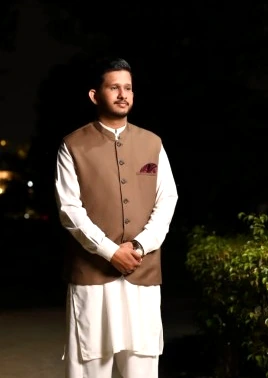
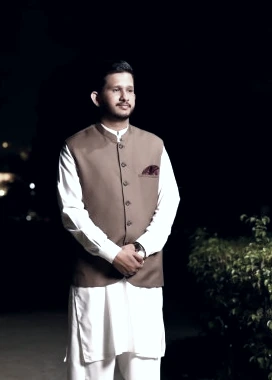
Hero: halftone portrait backdrop, name as display type, parallax

diff --git a/styles.css b/styles.css
@@ -467,7 +467,7 @@ footer{background:rgba(15,6,8,.5);backdrop-filter:blur(14px)}
 .bar.stuck{box-shadow:0 10px 30px -18px rgba(0,0,0,.8)}
 
 /* ---- facts row ---- */
-.facts{padding:22px clamp(18px,2.4vw,28px);border-top:0;margin-top:46px}
+.facts{padding:18px clamp(16px,2.2vw,26px);border-top:0;margin-top:34px}
 
 /* ---- project media as glass frames ---- */
 .shot{padding:10px;margin:0}
@@ -506,3 +506,124 @@ footer{background:rgba(15,6,8,.5);backdrop-filter:blur(14px)}
 }
 
 @media (prefers-reduced-motion:reduce){ .blob{animation:none} }
+
+/* ============================================================
+   Portrait — technical framing, not an arch
+   ============================================================ */
+.portrait-wrap{width:296px}
+
+/* dot matrix sitting behind and offset, like a plotted field */
+.portrait-grid{
+  position:absolute;inset:18px -22px -22px 18px;border-radius:4px;
+  background-image:radial-gradient(rgba(246,241,234,.22) 1px, transparent 1px);
+  background-size:9px 9px;
+  -webkit-mask-image:linear-gradient(215deg, transparent 38%, #000 100%);
+  mask-image:linear-gradient(215deg, transparent 38%, #000 100%);
+  opacity:.5;
+}
+
+/* viewfinder corner brackets */
+.brackets{
+  position:absolute;inset:-11px;width:calc(100% + 22px);height:calc(100% + 22px);
+  color:rgba(246,241,234,.34);pointer-events:none;z-index:3;
+}
+
+.portrait{
+  border-radius:5px;
+  border:1px solid rgba(246,241,234,.20);
+  box-shadow:0 30px 64px -30px rgba(0,0,0,.9), inset 0 1px 0 rgba(246,241,234,.14);
+}
+.portrait img{filter:none}
+/* a flatter, cooler fade so it sits on the page without the warm halo */
+.portrait::after{
+  height:30%;
+  background:linear-gradient(to top, rgba(12,10,14,.94) 0%, rgba(12,10,14,.42) 50%, transparent 100%);
+}
+.grain{opacity:.10}
+
+.portrait-badge{
+  left:auto;right:-12px;bottom:18px;border-radius:5px;
+  font-size:11.5px;letter-spacing:.01em;
+  background:rgba(18,14,18,.88);border-color:rgba(246,241,234,.18);
+}
+
+@media (max-width:980px){ .portrait-wrap{width:252px} }
+@media (max-width:640px){
+  .portrait-wrap{width:216px}
+  .portrait-grid{inset:14px -16px -16px 14px;background-size:8px 8px}
+  .brackets{inset:-8px;width:calc(100% + 16px);height:calc(100% + 16px)}
+  .portrait{border-radius:4px}
+  .portrait-badge{right:-8px;bottom:12px}
+}
+
+/* ============================================================
+   HERO v2 — halftone portrait as the backdrop, name as the type
+   ============================================================ */
+.hero{position:relative;overflow:hidden;min-height:min(100svh,980px);
+  display:flex;align-items:center;padding-block:clamp(118px,13vh,150px) clamp(56px,8vh,88px)}
+
+.hero-photo{
+  position:absolute;top:0;bottom:0;right:-2%;width:min(58%,860px);z-index:0;
+  pointer-events:none;
+  transition:transform .6s cubic-bezier(.2,.7,.3,1);
+  will-change:transform;
+}
+.hero-photo img{
+  width:100%;height:100%;object-fit:cover;object-position:54% 4%;
+  opacity:.62;
+  -webkit-mask-image:
+    linear-gradient(to right, transparent 0%, #000 38%, #000 100%),
+    linear-gradient(to bottom, #000 58%, transparent 97%);
+  mask-image:
+    linear-gradient(to right, transparent 0%, #000 38%, #000 100%),
+    linear-gradient(to bottom, #000 58%, transparent 97%);
+  -webkit-mask-composite:source-in;
+  mask-composite:intersect;
+}
+
+.hero-in{position:relative;z-index:3;width:100%}
+
+/* the name */
+.name{
+  font-size:clamp(60px,11.8vw,168px);
+  line-height:.86;
+  letter-spacing:-.055em;
+  font-weight:800;
+  color:var(--bone);
+  text-transform:none;
+  margin-top:4px;
+  mix-blend-mode:normal;
+  text-shadow:0 14px 60px rgba(10,4,7,.7);
+}
+.name .ln{display:block}
+.name .ln:last-child{margin-left:.07em;color:transparent;
+  -webkit-text-stroke:1.6px rgba(246,241,234,.72)}
+
+.role{
+  margin-top:clamp(20px,2.6vw,30px);
+  font-size:clamp(19px,2.5vw,30px);
+  font-weight:600;letter-spacing:-.025em;line-height:1.2;
+  color:var(--bone);max-width:20ch;
+}
+.hero .lede{margin-top:16px;max-width:50ch}
+
+.facts{display:flex;flex-wrap:wrap;gap:clamp(18px,3.4vw,44px);align-items:center}
+.facts .status dd{display:flex;align-items:center;gap:8px}
+
+@media (max-width:980px){
+  .hero-photo{width:62%;right:-6%}
+  .hero-photo img{opacity:.5}
+}
+
+@media (max-width:640px){
+  .hero{min-height:auto;padding-block:120px 70px}
+  .hero-photo{top:0;bottom:auto;right:-4%;left:auto;width:74%;height:52%}
+  .hero-photo img{opacity:.34;object-position:76% 2%;
+    -webkit-mask-image:linear-gradient(to bottom, #000 30%, transparent 94%);
+    mask-image:linear-gradient(to bottom, #000 30%, transparent 94%);
+    -webkit-mask-composite:source-over;mask-composite:add}
+  .name{font-size:clamp(56px,19vw,96px);line-height:.88}
+  .name .ln:last-child{-webkit-text-stroke-width:1.2px}
+  .role{max-width:none}
+  .facts{gap:16px 26px}
+}

diff --git a/index.html b/index.html
@@ -43,55 +43,49 @@
 <main>
 
 <!-- ========================= HERO ========================= -->
-<section class="hero">
+<section class="hero" id="hero">
+  <div class="hero-photo" id="heroPhoto" aria-hidden="true">
+    <img src="images/hero-portrait.webp" width="1500" height="2045" alt="" fetchpriority="high" decoding="async">
+  </div>
+
   <svg class="hero-art" viewBox="0 0 1400 700" preserveAspectRatio="xMidYMid slice" aria-hidden="true">
     <g class="draw" fill="none" stroke="#D9A441">
-      <path d="M-40 430 L130 360 L290 392 L450 300 L610 334 L780 246 L950 288 L1120 196 L1290 234 L1440 150" stroke-opacity=".30" stroke-width="1.2"/>
-      <path d="M-40 212 L120 258 L280 198 L450 238 L610 178 L780 220 L950 158 L1120 200 L1290 142 L1440 186" stroke-opacity=".17" stroke-width="1.1"/>
-      <path d="M620 640 L770 572 L930 612 L1090 532 L1250 572 L1410 492" stroke-opacity=".12" stroke-width="1.1"/>
+      <path d="M-40 430 L130 360 L290 392 L450 300 L610 334 L780 246 L950 288 L1120 196 L1290 234 L1440 150" stroke-opacity=".26" stroke-width="1.2"/>
+      <path d="M-40 212 L120 258 L280 198 L450 238 L610 178 L780 220 L950 158 L1120 200 L1290 142 L1440 186" stroke-opacity=".14" stroke-width="1.1"/>
     </g>
     <g class="pips" fill="#D9A441">
-      <circle cx="450" cy="300" r="3.2" opacity=".35"/><circle cx="780" cy="246" r="3.6" opacity=".45"/>
-      <circle cx="1120" cy="196" r="4" opacity=".6"/><circle cx="950" cy="158" r="3.2" opacity=".4"/>
-      <circle cx="1290" cy="142" r="3.6" opacity=".5"/><circle cx="1090" cy="532" r="3" opacity=".3"/>
+      <circle cx="450" cy="300" r="3.2" opacity=".3"/><circle cx="780" cy="246" r="3.6" opacity=".4"/>
+      <circle cx="1120" cy="196" r="4" opacity=".5"/><circle cx="950" cy="158" r="3.2" opacity=".35"/>
     </g>
-    <circle class="ring" cx="1120" cy="196" r="30" fill="none" stroke="#D9A441" stroke-opacity=".3" stroke-width="1.2"/>
-    <circle class="ring ring2" cx="1120" cy="196" r="54" fill="none" stroke="#D9A441" stroke-opacity=".14" stroke-width="1"/>
   </svg>
 
   <div class="wrap hero-in">
-    <div class="hero-grid">
-      <div class="hero-copy">
-        <p class="eyebrow rise" style="--d:0ms">Lahore, Pakistan — open to work</p>
-        <h1>
-          <span class="ln rise" style="--d:90ms">Full-stack developer</span>
-          <span class="ln rise" style="--d:180ms">who lives in the <span class="hl">database</span>.</span>
-        </h1>
-        <p class="lede rise" style="--d:280ms">
-          I build SYNC ERP — the system a pharmaceutical field force runs on. A React web app, a React Native
-          app on Google Play, and a PostgreSQL backend carrying most of the business logic.
-        </p>
-        <div class="cta rise" style="--d:360ms">
-          <a class="btn" href="#work">See the work</a>
-          <a class="btn ghost" href="cv/Talha-Aslam-Full-Stack-Developer.pdf" download>Download CV</a>
-        </div>
-      </div>
+    <p class="eyebrow rise" style="--d:0ms">Lahore, Pakistan — open to work</p>
 
-      <div class="portrait-wrap rise" style="--d:440ms" id="portrait">
-        <div class="portrait-plate" aria-hidden="true"></div>
-        <figure class="portrait">
-          <img src="images/portrait.webp" width="400" height="400" alt="Talha Aslam" fetchpriority="high" decoding="async">
-          <span class="grain" aria-hidden="true"></span>
-          <span class="sheen" aria-hidden="true"></span>
-        </figure>
-        <span class="portrait-badge"><span class="pulse"></span>Available for work</span>
-      </div>
+    <h1 class="name">
+      <span class="ln rise" style="--d:80ms">Talha</span>
+      <span class="ln rise" style="--d:170ms">Aslam</span>
+    </h1>
+
+    <p class="role rise" style="--d:260ms">
+      Full-stack developer who lives in the <span class="hl">database</span>.
+    </p>
+
+    <p class="lede rise" style="--d:330ms">
+      I build SYNC ERP — the system a pharmaceutical field force runs on. A React web app, a React Native
+      app on Google Play, and a PostgreSQL backend carrying most of the business logic.
+    </p>
+
+    <div class="cta rise" style="--d:410ms">
+      <a class="btn" href="#work">See the work</a>
+      <a class="btn ghost" href="cv/Talha-Aslam-Full-Stack-Developer.pdf" download>Download CV</a>
     </div>
 
-    <dl class="facts glass rise" style="--d:520ms">
+    <dl class="facts glass rise" style="--d:490ms">
       <div><dt>Experience</dt><dd>2+ years</dd></div>
       <div><dt>In production</dt><dd>Web &amp; mobile ERP</dd></div>
       <div><dt>Core stack</dt><dd>React · Node · PostgreSQL</dd></div>
+      <div class="status"><dt>Status</dt><dd><span class="pulse"></span>Available for work</dd></div>
     </dl>
   </div>
 

diff --git a/script.js b/script.js
@@ -66,10 +66,10 @@
   }
 
   /* ---------- portrait parallax tilt (pointer devices only) ---------- */
-  var pw = document.getElementById('portrait');
+  var pw = document.getElementById('hero');
   var fine = window.matchMedia('(hover: hover) and (pointer: fine)').matches;
   if (pw && fine && !reduced) {
-    var card = pw.querySelector('.portrait');
+    var card = document.getElementById('heroPhoto');
     var frame = null;
     pw.addEventListener('mousemove', function (e) {
       if (frame) return;
@@ -79,7 +79,7 @@
         var x = (e.clientX - r.left) / r.width - 0.5;
         var y = (e.clientY - r.top) / r.height - 0.5;
         card.style.transform =
-          'rotateY(' + (x * 9).toFixed(2) + 'deg) rotateX(' + (-y * 9).toFixed(2) + 'deg) translateZ(14px)';
+          'translate3d(' + (-x * 26).toFixed(1) + 'px,' + (-y * 18).toFixed(1) + 'px,0) scale(1.05)';
       });
     });
     pw.addEventListener('mouseleave', function () {
